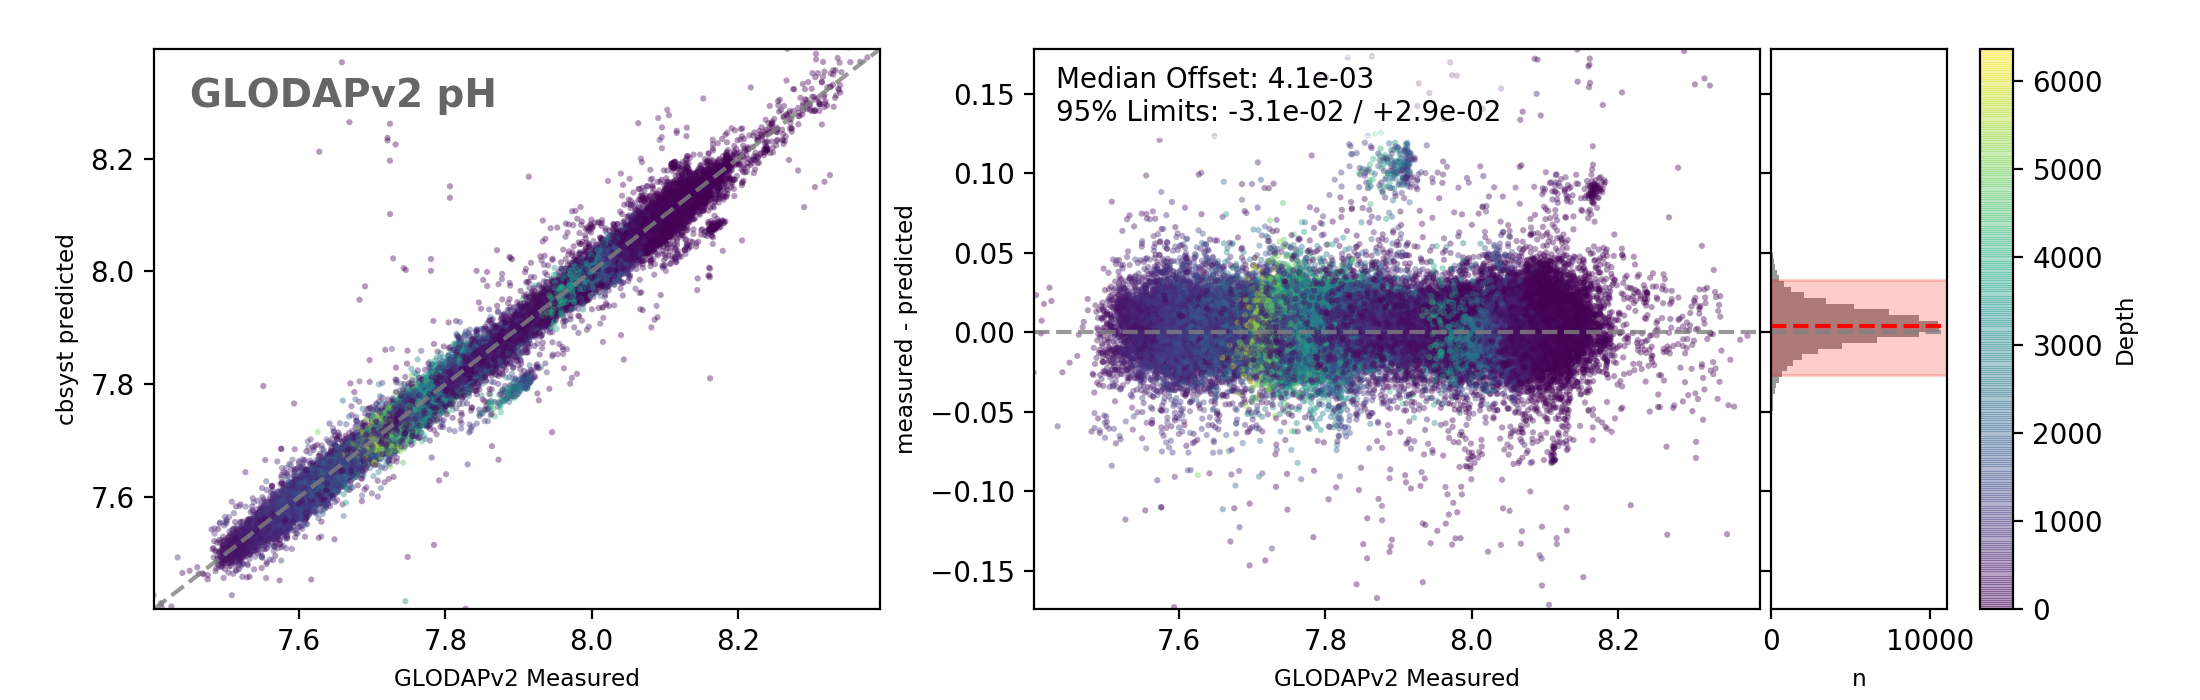
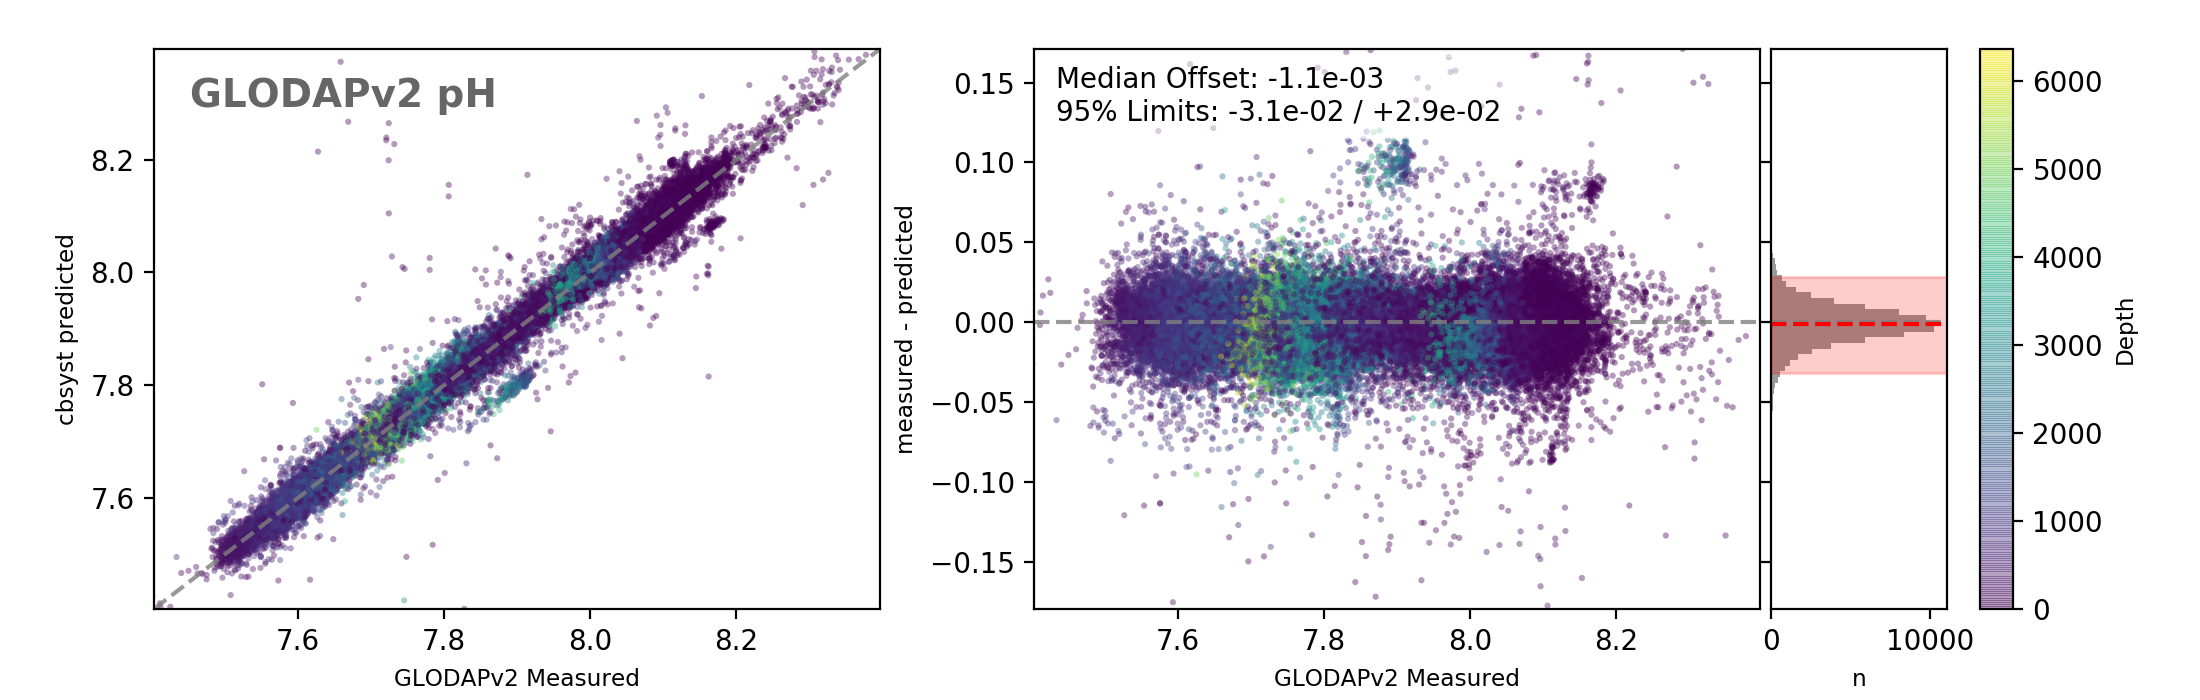
Updated GLODAPv2 comparison

diff --git a/cbsyst/test_data/GLODAP_data/plot_GLODAPv2_comparison.py b/cbsyst/test_data/GLODAP_data/plot_GLODAPv2_comparison.py
@@ -27,19 +27,19 @@ def GLODAPv2_comparison(figdir='.'):
 
     # Do the work...
     print('Calculating pH from DIC and TA...')
-    cpH = cb.Csys(TA=gd.talk, DIC=gd.tco2, T=gd.temperature, S=gd.salinity, P=gd.pressure, TP=gd.phosphate, TSi=gd.silicate)
+    cpH = cb.Csys(TA=gd.talk, DIC=gd.tco2, T=gd.temperature, S=gd.salinity, P=gd.pressure, TP=gd.phosphate, TSi=gd.silicate, BT=415.7)
     print('   Making plots...')
     fig, axs = cplot(gd.phtsinsitutp, cpH.pH, 'pH', 'Depth', gd.depth)
     fig.savefig(figdir + '/Figures/pH_comparison.png', dpi=200)
 
     print('Calculating TA from pH and DIC...')
-    cTA = cb.Csys(pH=gd.phtsinsitutp, DIC=gd.tco2, T=gd.temperature, S=gd.salinity, P=gd.pressure, TP=gd.phosphate, TSi=gd.silicate)
+    cTA = cb.Csys(pH=gd.phtsinsitutp, DIC=gd.tco2, T=gd.temperature, S=gd.salinity, P=gd.pressure, TP=gd.phosphate, TSi=gd.silicate, BT=415.7)
     print('   Making plots...')
     fig, ax = cplot(gd.talk, cTA.TA, 'Alk', 'Depth', gd.depth)
     fig.savefig('Figures/TA_comparison.png', dpi=200)
 
     print('Calculating DIC from pH and TA...')
-    cDIC = cb.Csys(pH=gd.phtsinsitutp, TA=gd.talk, T=gd.temperature, S=gd.salinity, P=gd.pressure, TP=gd.phosphate, TSi=gd.silicate)
+    cDIC = cb.Csys(pH=gd.phtsinsitutp, TA=gd.talk, T=gd.temperature, S=gd.salinity, P=gd.pressure, TP=gd.phosphate, TSi=gd.silicate, BT=415.7)
     print('   Making plots...')
     fig, ax = cplot(gd.tco2, cDIC.DIC, 'DIC', 'Depth', gd.depth)
     fig.savefig('Figures/DIC_comparison.png', dpi=200)
